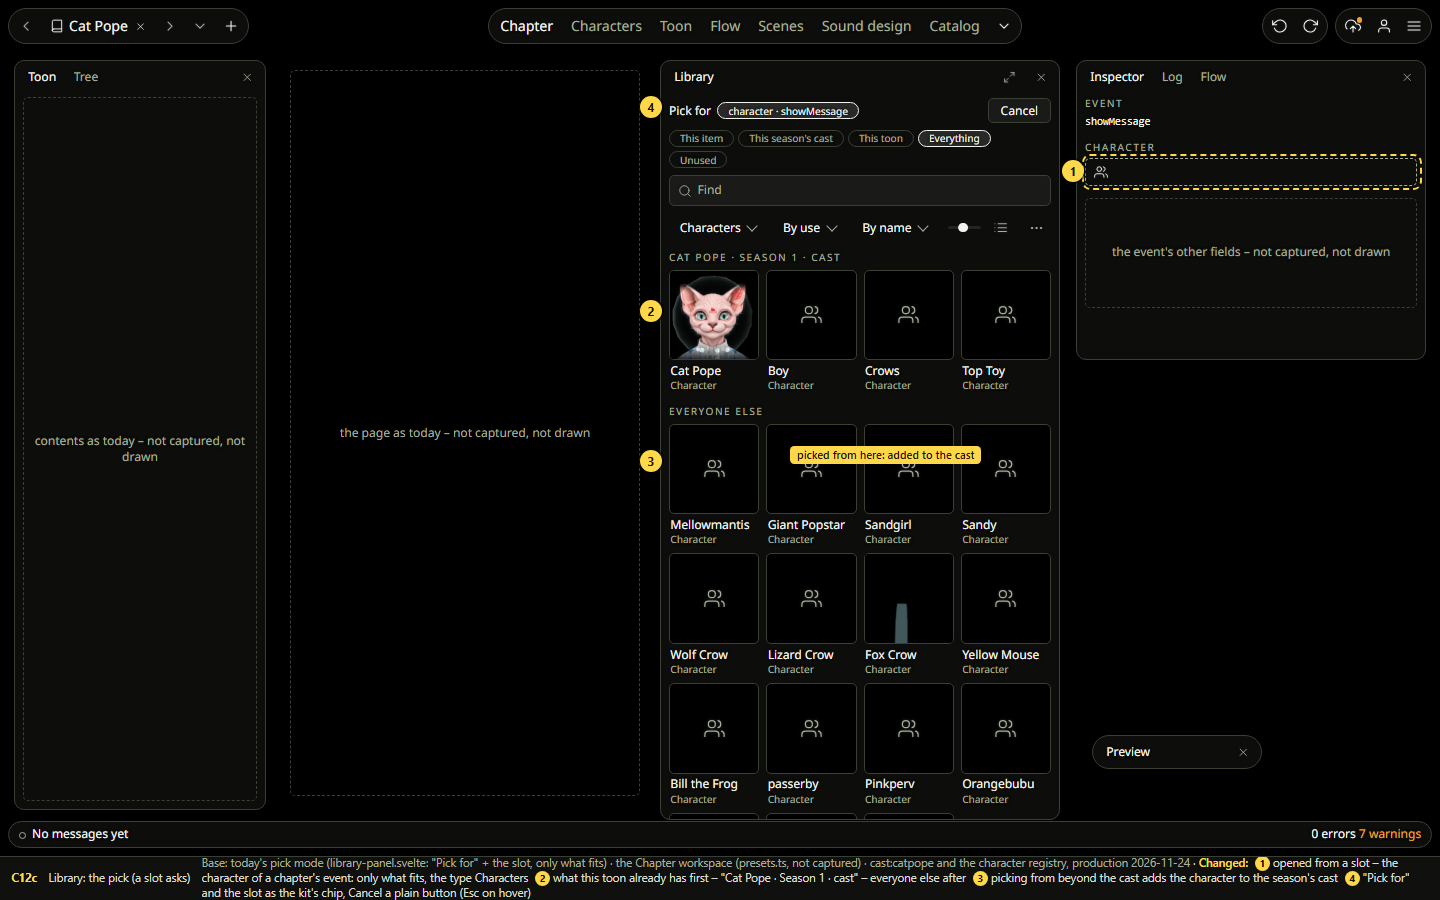
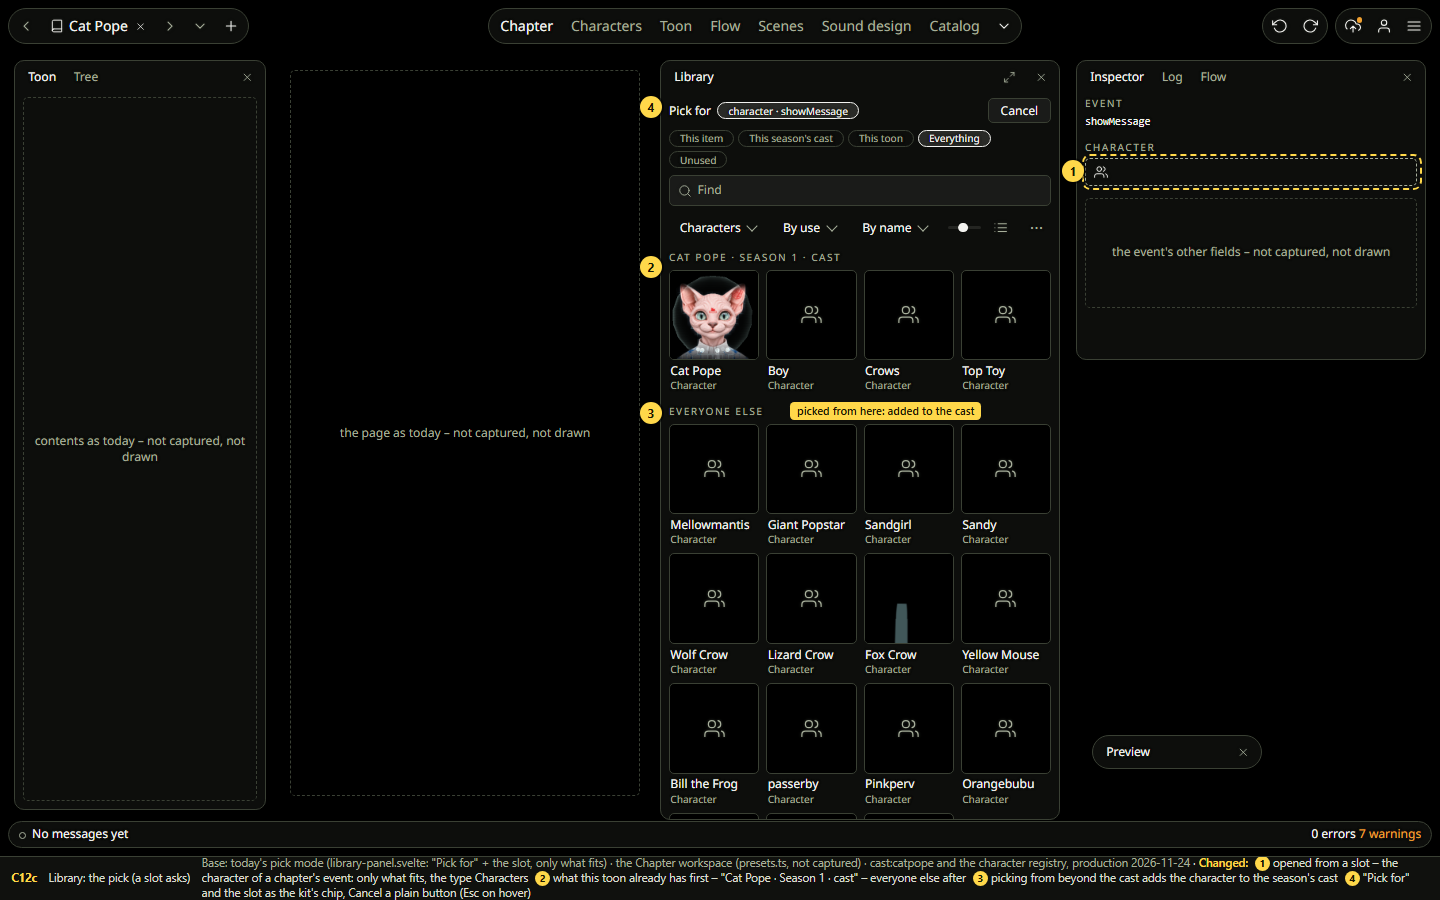
Lap 2 draft: the pick screen's markers back in place after the type select. Refs #626

diff --git a/agents/research/redesign/lap2/draft-screens.js b/agents/research/redesign/lap2/draft-screens.js
@@ -415,7 +415,7 @@ add('C', 'C12c', 'Library: the pick (a slot asks)', "today's pick mode (library-
       { x: 1092, y: 735, w: 170, tabs: [['Preview',1]], folded: true }])}<div class="abs" style="left:290px;top:70px;width:350px;bottom:60px">${pageNotShot()}</div>
     ${libraryPanel(660, 60, 400, 760, { cols: 4, pick: 'character · showMessage', type: 'Characters', place: 'Everything', gap: '.5rem .5rem',
       groups: [['Cat Pope · Season 1 · cast', [tl('catpope'), tl('boy'), tl('crows'), tl('toptoy')]], ['Everyone else', OTHERS]] })}
-    ${ring(1082, 154, 340, 36)}${mk(1, 1062, 160)}${mk(2, 640, 300)}${mk(3, 640, 450)}${capn(790, 446, 'picked from here: added to the cast')}${mk(4, 640, 96)}
+    ${ring(1082, 154, 340, 36)}${mk(1, 1062, 160)}${mk(2, 640, 256)}${mk(3, 640, 402)}${capn(790, 402, 'picked from here: added to the cast')}${mk(4, 640, 96)}
     `);
 
 add('C', 'C13', 'Settings', "the Settings panel in now/creator-6 (the owner's circles)",
